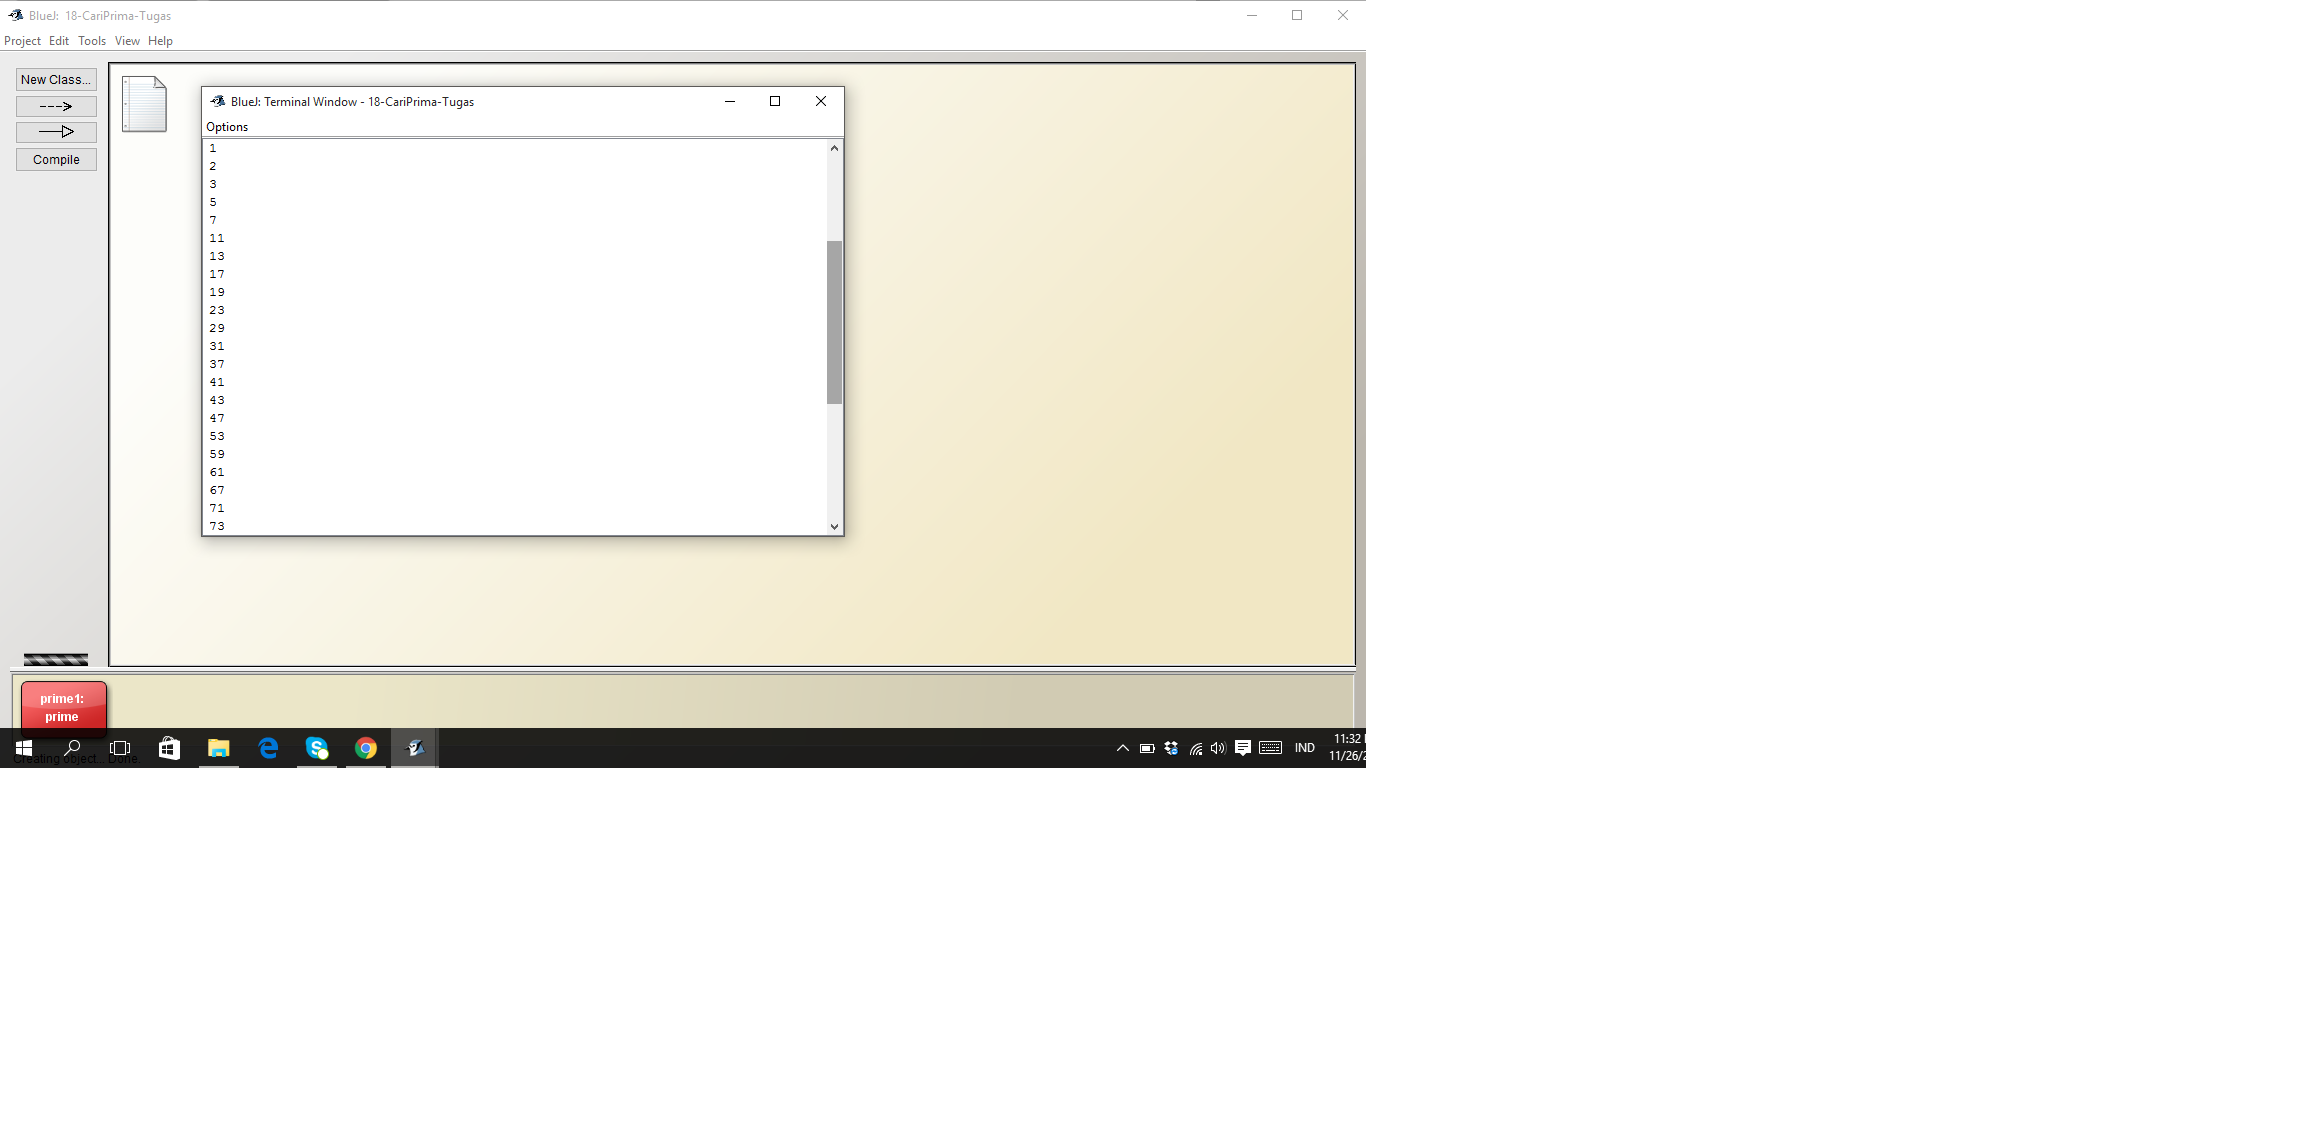
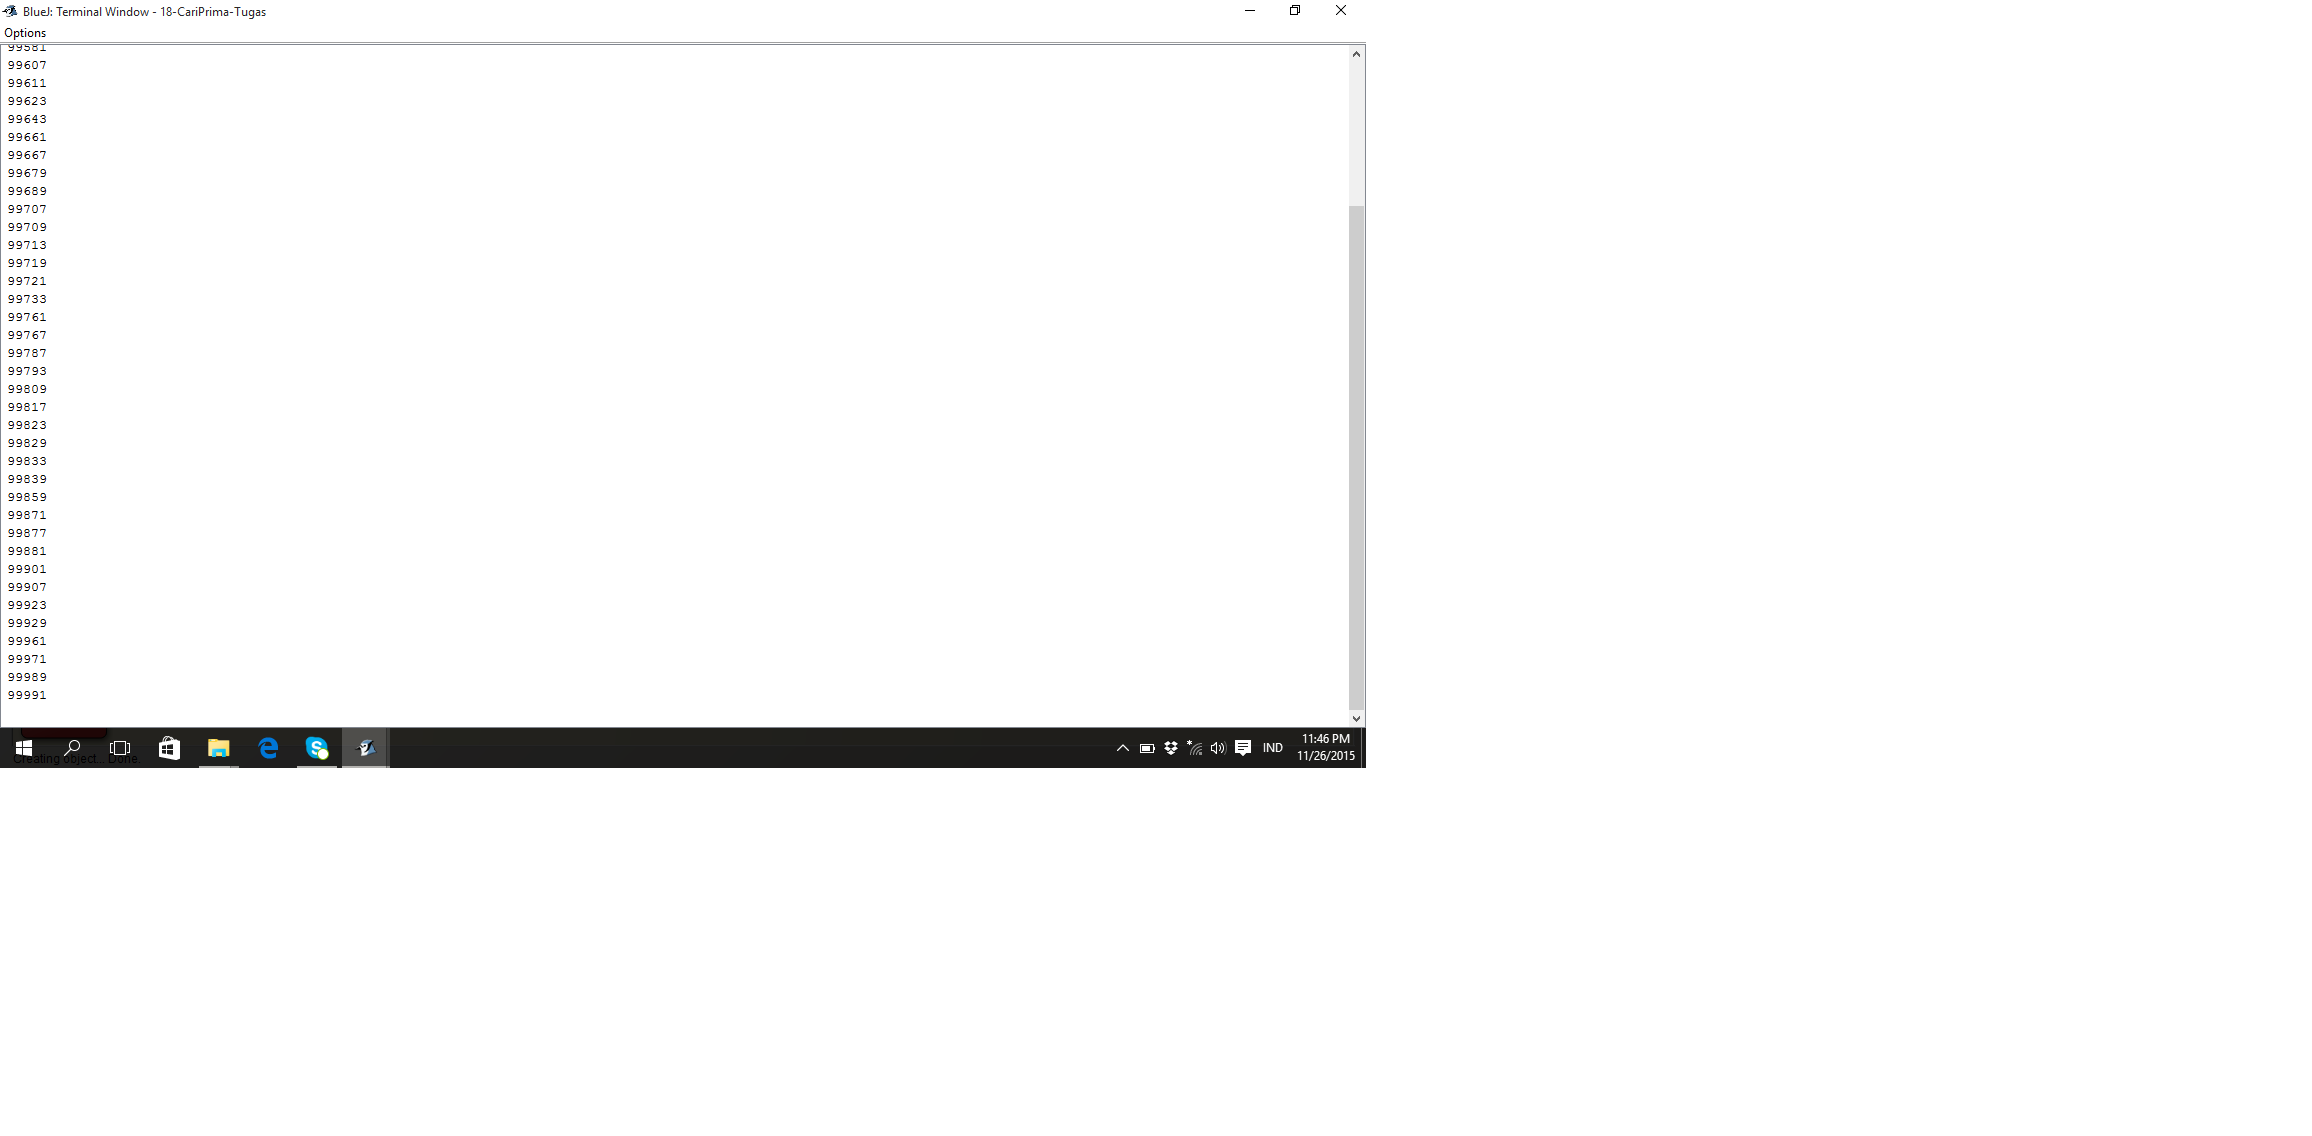
no message

Changed region(s): [[0.0, 0.0, 0.5917, 0.6778]]

diff --git a/18-CariPrima-Tugas/prime.java b/18-CariPrima-Tugas/prime.java
@@ -13,7 +13,7 @@ public class prime
      * Constructor for objects of class prime
      */
    public prime()
-   {   int angka = 150;
+   {   int angka = 100000;
        
        for(int j=1;j<angka;j++){
        int periksa=0;
